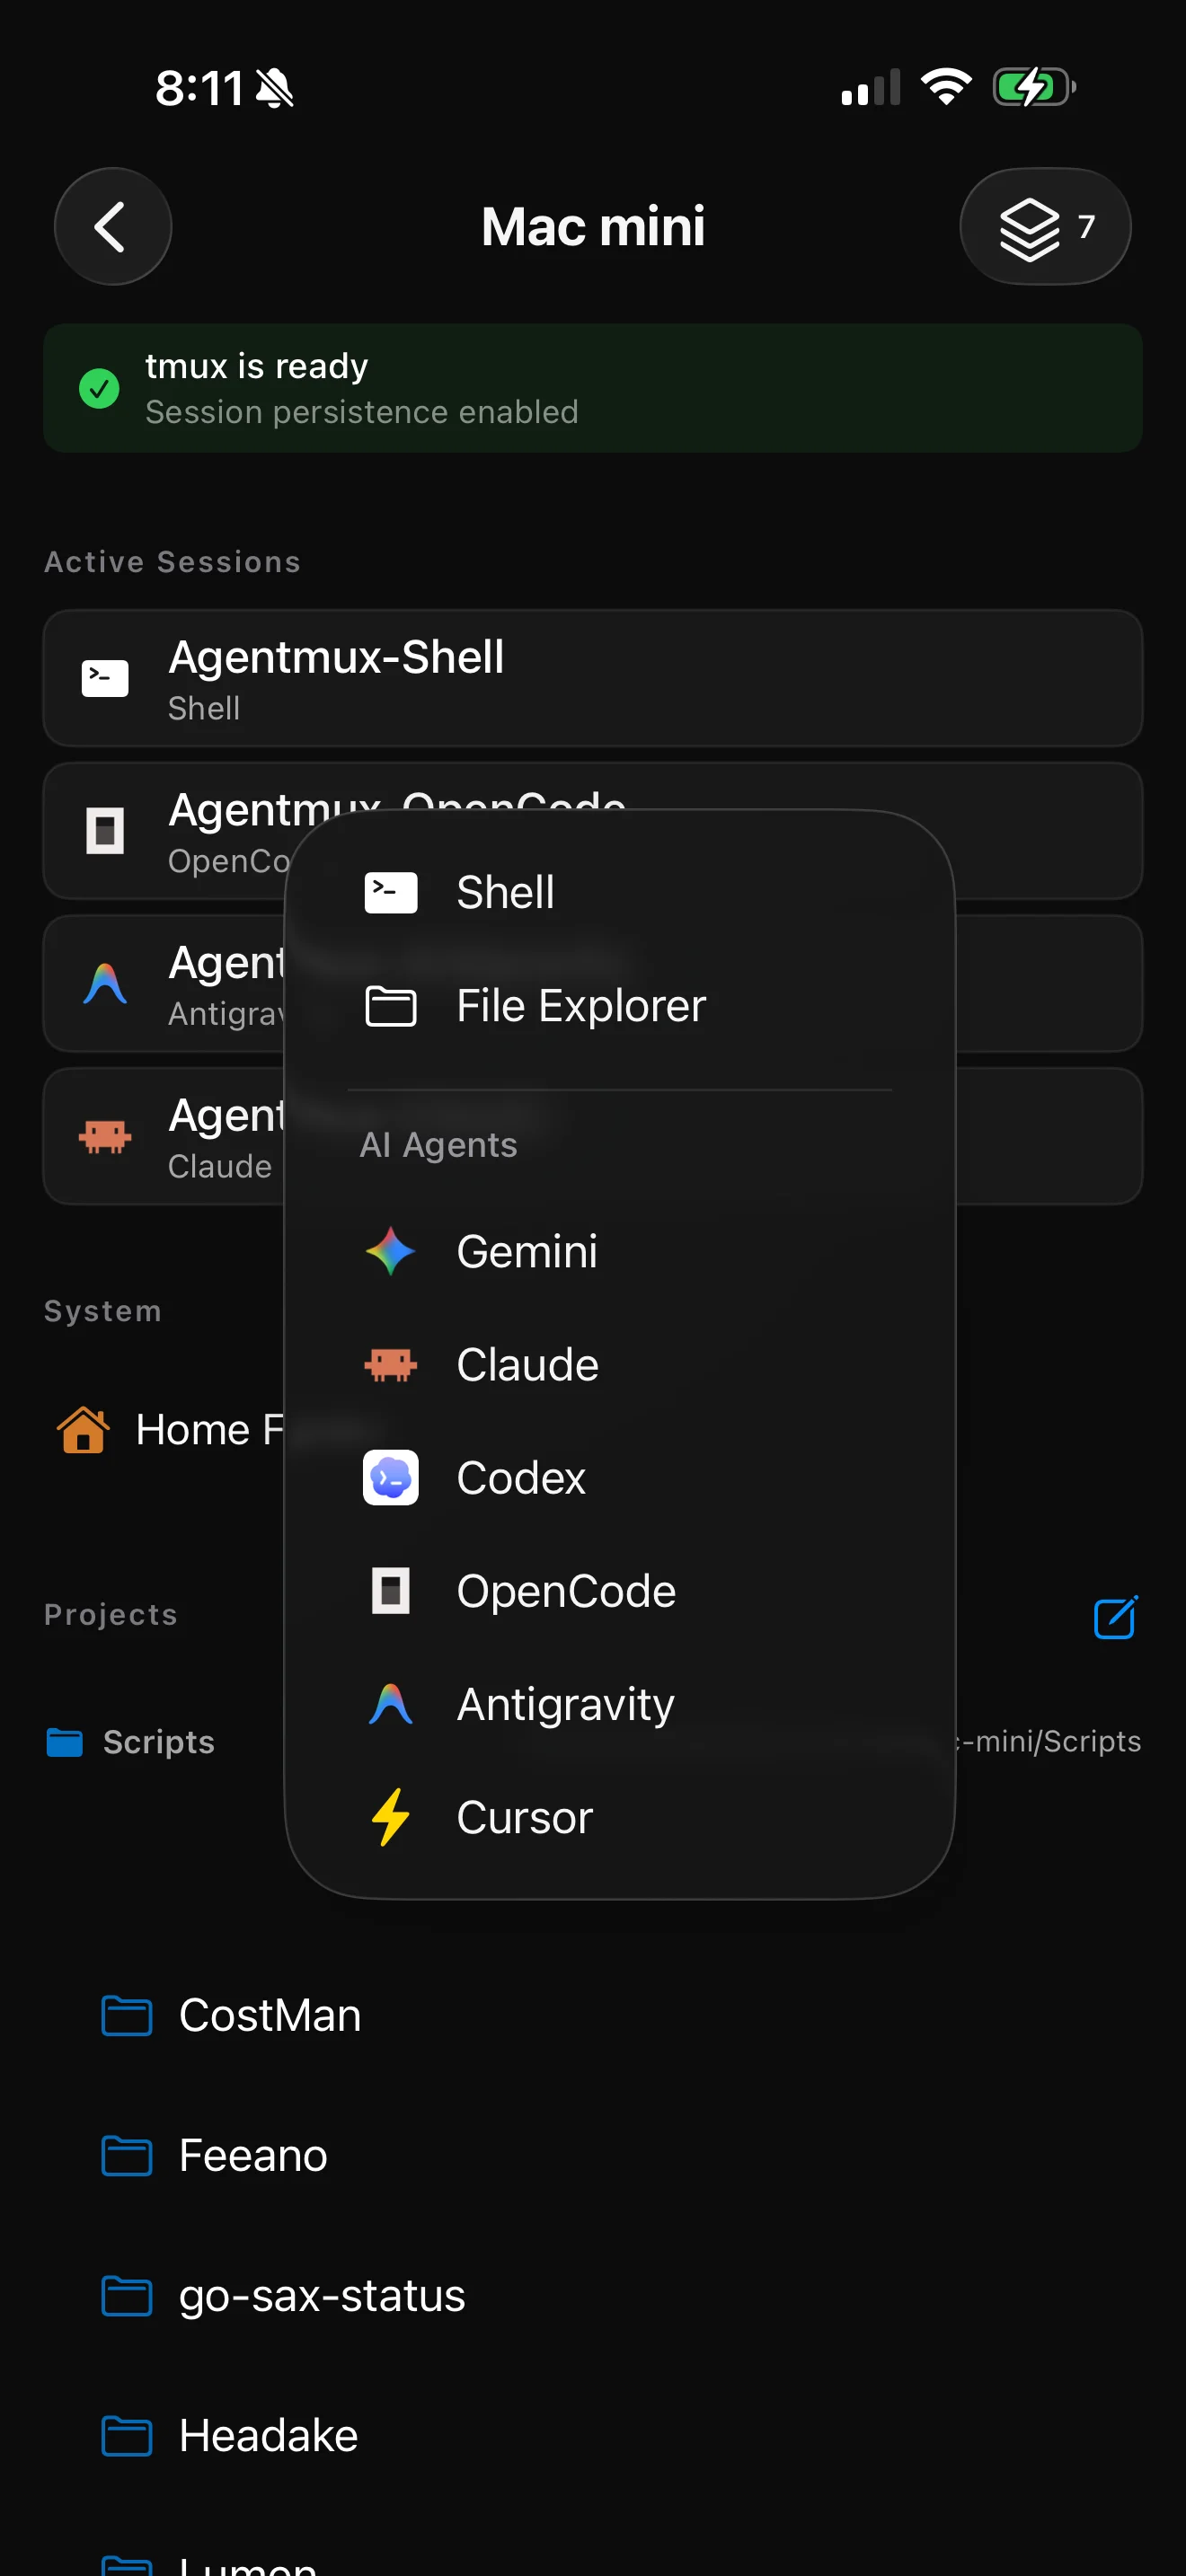
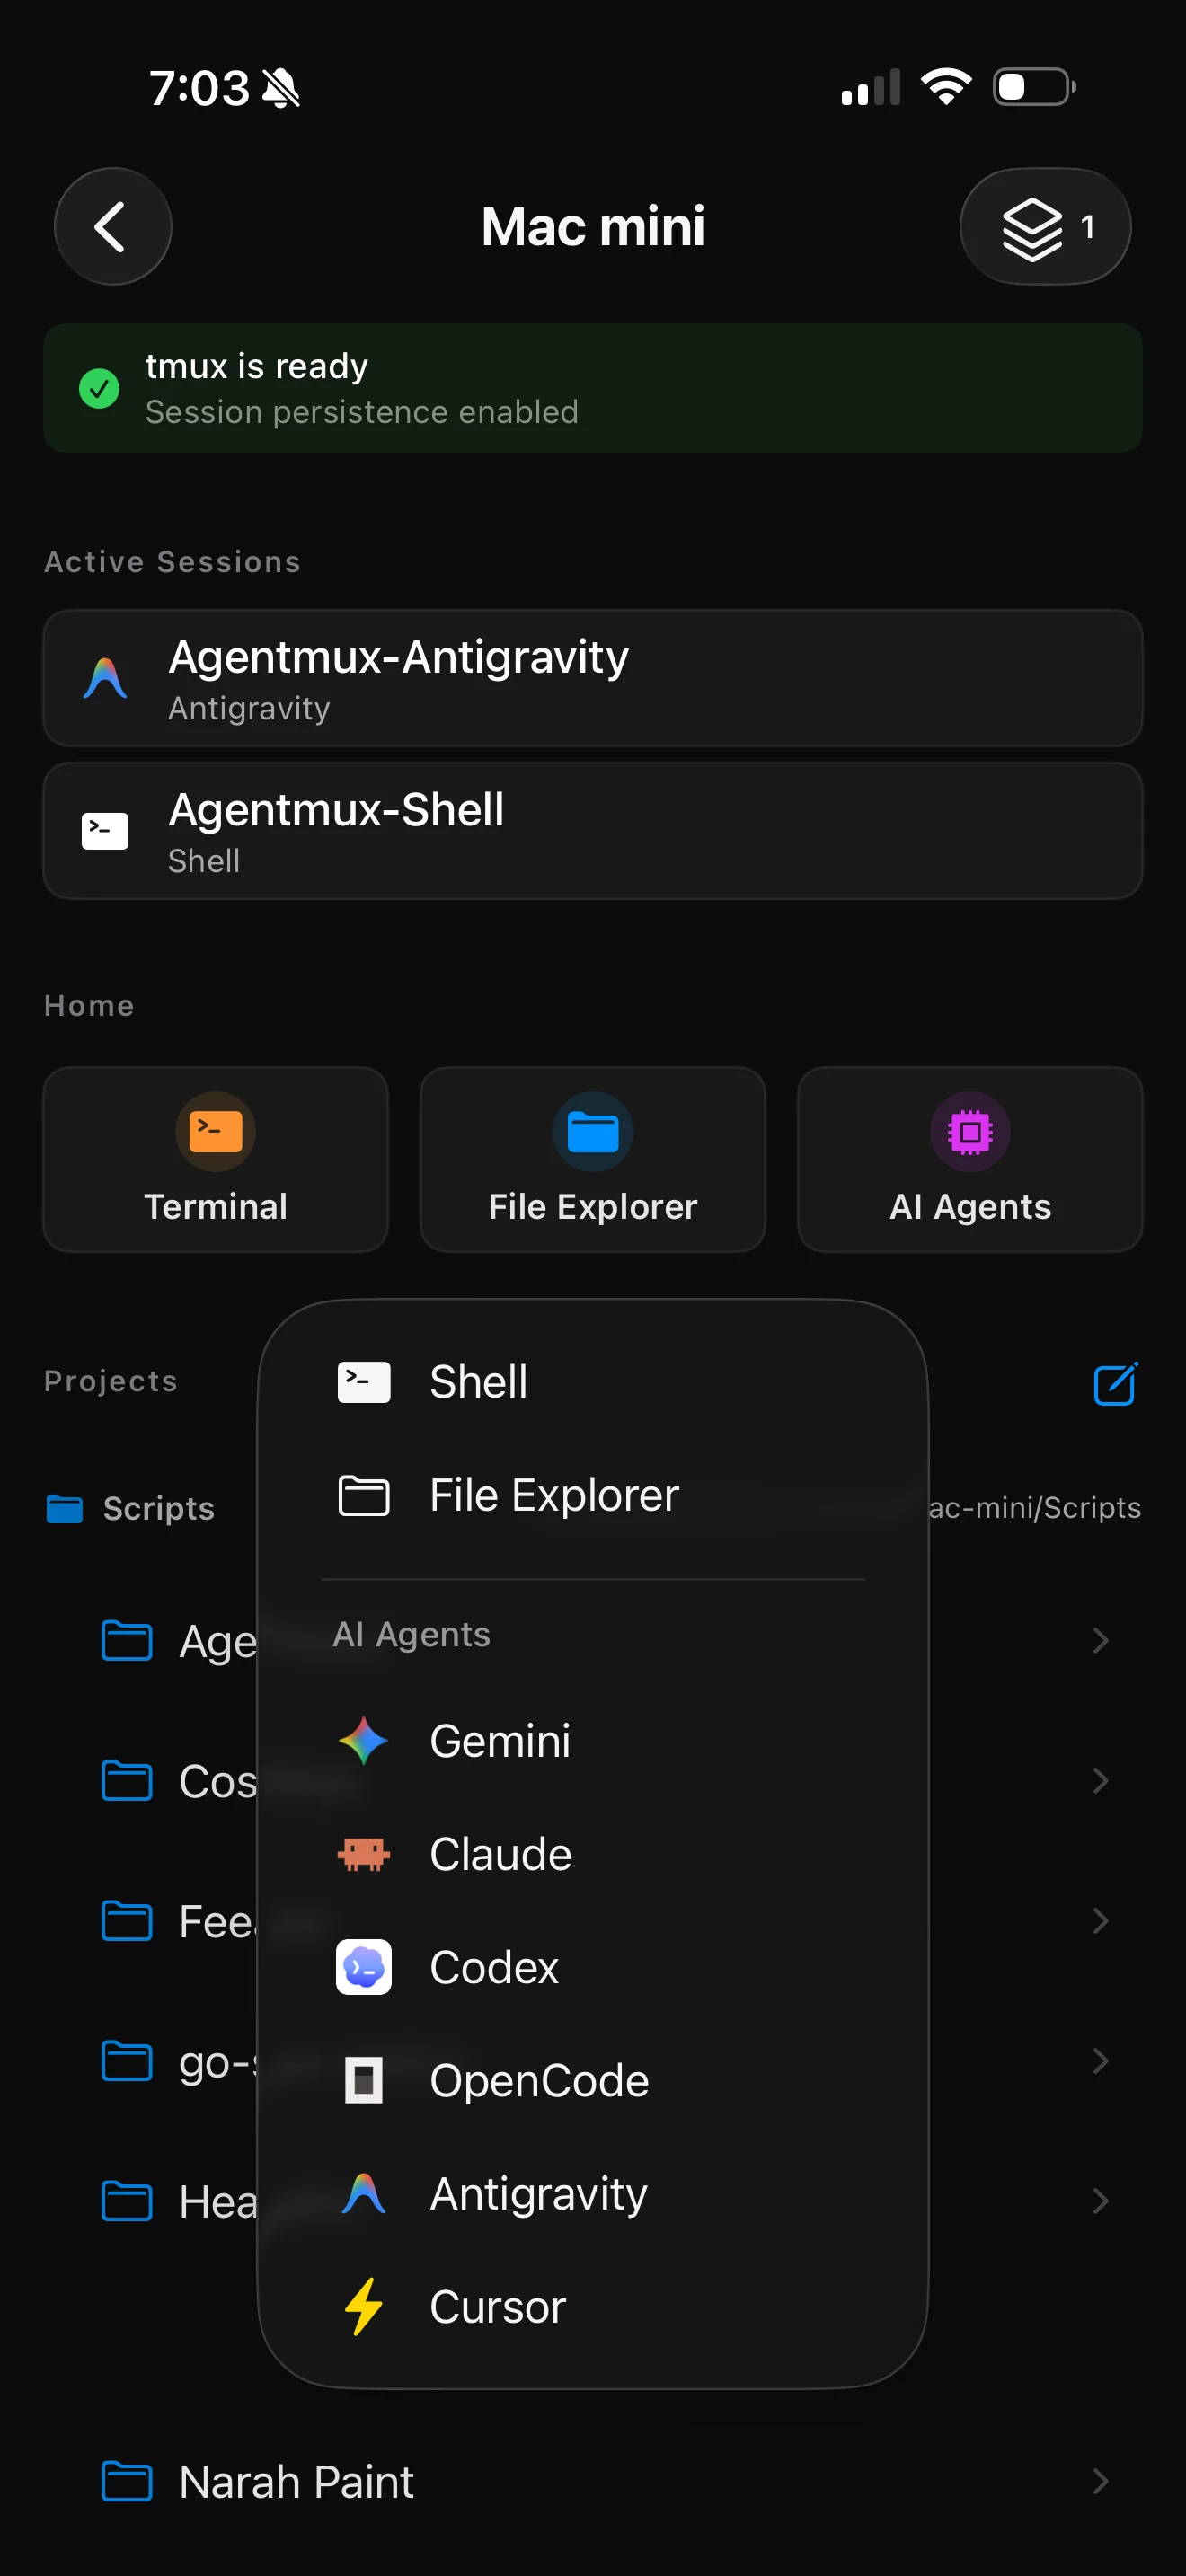
Launch on App Store: update CTAs, copy, and launch-any-agent screenshots.
Replace TestFlight links with the universal App Store URL, refine Traditional Chinese wording, and add responsive download button labels with fixed sizing on desktop.

diff --git a/index.html b/index.html
@@ -169,11 +169,13 @@
         }
 
         .nav-cta {
+            width: 214px;
             min-height: 42px;
             padding: 0 18px;
             color: #06100d;
             background: var(--lime);
             font-size: 13px;
+            white-space: nowrap;
         }
 
         .hero {
@@ -243,6 +245,12 @@
             color: #06100d;
             background: var(--green);
             box-shadow: 0 18px 44px rgba(24, 214, 166, 0.22);
+        }
+
+        .primary-btn.download-cta {
+            width: 276px;
+            max-width: 100%;
+            white-space: nowrap;
         }
 
         .secondary-btn {
@@ -758,6 +766,10 @@
         div[data-lang].active,
         section[data-lang].active { display: block; }
 
+        .cta-label-short { display: none !important; }
+        .cta-label-long { display: none; }
+        .cta-label-long.active { display: initial; }
+
         @media (max-width: 980px) {
             .nav-shell {
                 align-items: flex-start;
@@ -862,10 +874,23 @@
             .nav-cta {
                 grid-column: 2;
                 grid-row: 1;
-                width: auto;
+                width: 104px;
                 min-height: 36px;
                 padding: 0 13px;
-                font-size: 13px;
+                font-size: 12px;
+            }
+
+            .cta-label-long,
+            .cta-label-long.active {
+                display: none !important;
+            }
+
+            .cta-label-short.active {
+                display: initial !important;
+            }
+
+            .primary-btn.download-cta {
+                width: 100%;
             }
 
             .primary-btn,
@@ -1065,11 +1090,15 @@
                 <button class="lang-btn" type="button" onclick="switchLang('zh-Hans')">简中</button>
                 <button class="lang-btn" type="button" onclick="switchLang('ja')">日本語</button>
             </div>
-            <a class="nav-cta" href="https://testflight.apple.com/join/TB1bVUNz">
-                <span data-lang="en" class="active">Join TestFlight</span>
-                <span data-lang="zh-TW">加入 TestFlight</span>
-                <span data-lang="zh-Hans">加入 TestFlight</span>
-                <span data-lang="ja">TestFlight に参加</span>
+            <a class="nav-cta" href="https://apps.apple.com/app/id6766158521">
+                <span class="cta-label-long active" data-lang="en">Download on the App Store</span>
+                <span class="cta-label-long" data-lang="zh-TW">在 App Store 下載</span>
+                <span class="cta-label-long" data-lang="zh-Hans">在 App Store 下载</span>
+                <span class="cta-label-long" data-lang="ja">App Store でダウンロード</span>
+                <span class="cta-label-short active" data-lang="en">Download</span>
+                <span class="cta-label-short" data-lang="zh-TW">下載</span>
+                <span class="cta-label-short" data-lang="zh-Hans">下载</span>
+                <span class="cta-label-short" data-lang="ja">ダウンロード</span>
             </a>
         </div>
     </nav>
@@ -1097,15 +1126,19 @@
                         <span data-lang="ja">Agentmux は iPhone と iPad をリモート開発の司令塔にします。tmux セッションに戻り、Claude、Codex、Gemini、OpenCode をすぐ起動できます。</span>
                     </p>
                     <div class="hero-actions">
-                        <a class="primary-btn" href="https://testflight.apple.com/join/TB1bVUNz">
-                            <span data-lang="en" class="active">Join the beta</span>
-                            <span data-lang="zh-TW">加入 Beta 測試</span>
-                            <span data-lang="zh-Hans">加入 Beta 测试</span>
-                            <span data-lang="ja">Beta に参加</span>
+                        <a class="primary-btn download-cta" href="https://apps.apple.com/app/id6766158521">
+                            <span class="cta-label-long active" data-lang="en">Download on the App Store</span>
+                            <span class="cta-label-long" data-lang="zh-TW">在 App Store 下載</span>
+                            <span class="cta-label-long" data-lang="zh-Hans">在 App Store 下载</span>
+                            <span class="cta-label-long" data-lang="ja">App Store でダウンロード</span>
+                            <span class="cta-label-short active" data-lang="en">Download</span>
+                            <span class="cta-label-short" data-lang="zh-TW">下載</span>
+                            <span class="cta-label-short" data-lang="zh-Hans">下载</span>
+                            <span class="cta-label-short" data-lang="ja">ダウンロード</span>
                         </a>
                         <a class="secondary-btn" href="#features">
                             <span data-lang="en" class="active">See the workflow</span>
-                            <span data-lang="zh-TW">看看工作流</span>
+                            <span data-lang="zh-TW">看看工作流程</span>
                             <span data-lang="zh-Hans">看看工作流</span>
                             <span data-lang="ja">作業フローを見る</span>
                         </a>
@@ -1143,7 +1176,7 @@
                     <div class="demo-copy">
                         <div class="eyebrow">
                             <span data-lang="en" class="active">30-second workflow</span>
-                            <span data-lang="zh-TW">30 秒看懂工作流</span>
+                            <span data-lang="zh-TW">30 秒看懂工作流程</span>
                             <span data-lang="zh-Hans">30 秒看懂工作流</span>
                             <span data-lang="ja">30 秒で見る作業フロー</span>
                         </div>
@@ -1155,7 +1188,7 @@
                         </h2>
                         <p>
                             <span data-lang="en" class="active">Agentmux keeps remote sessions, agents, and project context close together so a phone check can turn into real progress.</span>
-                            <span data-lang="zh-TW">Agentmux 把遠端工作階段、Agent 與專案上下文放在一起，手機上也能真的推進工作。</span>
+                            <span data-lang="zh-TW">Agentmux 把遠端工作階段、Agent 與專案脈絡整合在一起，在手機上也能真正推進進度。</span>
                             <span data-lang="zh-Hans">Agentmux 把远程会话、Agent 与项目上下文放在一起，手机上也能真正推进工作。</span>
                             <span data-lang="ja">Agentmux はリモートセッション、Agent、プロジェクト文脈を近くに置き、スマホから実作業へすぐ戻れます。</span>
                         </p>
@@ -1179,7 +1212,7 @@
                 <div class="section-head">
                     <div class="eyebrow">
                         <span data-lang="en" class="active">Built for real remote development sessions</span>
-                        <span data-lang="zh-TW">為真正的遠端開發工作階段設計</span>
+                        <span data-lang="zh-TW">專為實際的遠端開發工作階段設計</span>
                         <span data-lang="zh-Hans">为真正的远程开发会话设计</span>
                         <span data-lang="ja">実際のリモート開発セッションのために</span>
                     </div>
@@ -1191,7 +1224,7 @@
                     </h2>
                     <p>
                         <span data-lang="en" class="active">Not a tiny terminal with a keyboard bolted on. Agentmux is shaped around sessions, agents, files, edits, and docs.</span>
-                        <span data-lang="zh-TW">不是把終端機縮小塞進螢幕。Agentmux 是為真正的遠端工作流設計：工作階段、Agent、檔案、編輯、文件一次到位。</span>
+                        <span data-lang="zh-TW">不是把終端機縮小塞進螢幕。Agentmux 專為實際的遠端工作流程設計：工作階段、Agent、檔案、編輯、文件一次到位。</span>
                         <span data-lang="zh-Hans">不是把终端缩小塞进屏幕。Agentmux 是为真正的远程工作流设计：会话、Agent、文件、编辑、文档一次到位。</span>
                         <span data-lang="ja">小さなターミナルを押し込むだけではありません。セッション、エージェント、ファイル、編集、ドキュメントまで、実作業に合わせて設計しています。</span>
                     </p>
@@ -1223,7 +1256,7 @@
                         </h3>
                         <p>
                             <span data-lang="en" class="active">Reconnect to active work instead of rebuilding context after every network change.</span>
-                            <span data-lang="zh-TW">網路切換後不用重建上下文，打開 iPhone 或 iPad 就接回原本工作狀態。</span>
+                            <span data-lang="zh-TW">網路切換後不用重建脈絡，打開 iPhone 或 iPad 就接回原本工作狀態。</span>
                             <span data-lang="zh-Hans">网络切换后不用重建上下文，打开 iPhone 或 iPad 就接回原本工作状态。</span>
                             <span data-lang="ja">通信が変わっても作業文脈を失わず、iPhone や iPad からすぐ元の状態に戻れます。</span>
                         </p>
@@ -1252,13 +1285,13 @@
                         <strong>AGENT LAUNCHER</strong>
                         <h2>
                             <span data-lang="en" class="active">Claude, Codex, Gemini, OpenCode. One tap.</span>
-                            <span data-lang="zh-TW">想用哪個 agent，<br>點一下就開。</span>
+                            <span data-lang="zh-TW">想用哪個 Agent，<br>點一下就開。</span>
                             <span data-lang="zh-Hans">想用哪个 agent，<br>点一下就开。</span>
                             <span data-lang="ja">使いたい agent を、<br>すぐ呼び出せる。</span>
                         </h2>
                         <p>
                             <span data-lang="en" class="active">Agentmux keeps agent choices close to the project: launch a shell, open files, or start the right AI assistant without rebuilding context.</span>
-                            <span data-lang="zh-TW">Agentmux 把 Shell、檔案和 AI Agent 放在專案旁邊，少切換、少中斷，不用重新找上下文。</span>
+                            <span data-lang="zh-TW">Agentmux 把 Shell、檔案和 AI Agent 跟專案放在一起，少切換、少中斷，不必重新找脈絡。</span>
                             <span data-lang="zh-Hans">Agentmux 把 Shell、文件和 AI Agent 放在项目旁边，少切换、少中断，不用重新找上下文。</span>
                             <span data-lang="ja">Shell、ファイル、AI エージェントをプロジェクトのすぐそばに置き、文脈を失わずに作業を続けられます。</span>
                         </p>
@@ -1304,7 +1337,7 @@
                         </h2>
                         <p>
                             <span data-lang="en" class="active">Move through source files, builds, and Markdown docs without typing long paths. Pro adds branch switching, history, and batch file tools.</span>
-                            <span data-lang="zh-TW">原始碼、build、README 都能直接瀏覽，不用在終端機裡猜路徑。Pro 會加上分支切換、歷史紀錄和批次檔案工具。</span>
+                            <span data-lang="zh-TW">原始碼、build、README 都能直接瀏覽，不用在終端機裡猜路徑。Pro 支援分支切換、歷史紀錄和批次檔案工具。</span>
                             <span data-lang="zh-Hans">源码、build、README 都能直接浏览，不用在终端里猜路径。Pro 会加上分支切换、历史记录和批量文件工具。</span>
                             <span data-lang="ja">ソース、build、README まで、長いパスを打たずに移動できます。Pro ではブランチ切り替え、履歴、ファイル一括操作も使えます。</span>
                         </p>
@@ -1330,7 +1363,7 @@
                         </h2>
                         <p>
                             <span data-lang="en" class="active">Line numbers and syntax highlighting make source readable on the go. Pro turns that viewer into a remote editor with quick saves over SSH.</span>
-                            <span data-lang="zh-TW">行號與語法上色讓原始碼看起來清楚。Pro 會把檢視器變成可透過 SSH 快速儲存的遠端編輯器。</span>
+                            <span data-lang="zh-TW">行號與語法上色讓原始碼更易讀。Pro 能把檢視器變成可透過 SSH 快速儲存的遠端編輯器。</span>
                             <span data-lang="zh-Hans">行号与语法高亮让源码看起来清楚。Pro 会把查看器变成可通过 SSH 快速保存的远程编辑器。</span>
                             <span data-lang="ja">行番号とシンタックスハイライトでソースを読みやすく。Pro なら SSH 越しに保存できるリモートエディタになります。</span>
                         </p>
@@ -1343,19 +1376,19 @@
                     <div>
                         <div class="eyebrow">
                             <span data-lang="en" class="active">Free trial, then choose your workspace</span>
-                            <span data-lang="zh-TW">先完整試用，再選擇你的工作空間</span>
+                            <span data-lang="zh-TW">先完整試用，再決定是否升級</span>
                             <span data-lang="zh-Hans">先完整试用，再选择你的工作空间</span>
                             <span data-lang="ja">まず全機能を試用、そのあとワークスペースを選ぶ</span>
                         </div>
                         <h2>
                             <span data-lang="en" class="active">Pro is for people who live in remote projects.</span>
-                            <span data-lang="zh-TW">Pro 給真的<br>住在遠端專案裡的人。</span>
+                            <span data-lang="zh-TW">Pro 給每天泡在<br>遠端專案裡的開發者。</span>
                             <span data-lang="zh-Hans">Pro 给真的<br>住在远程项目里的人。</span>
                             <span data-lang="ja">Pro はリモートプロジェクトで<br>本気で作業する人へ。</span>
                         </h2>
                         <p>
                             <span data-lang="en" class="active">Agentmux includes a 14-day full-feature trial. After that, free users can keep a focused single-server SSH workflow; Pro unlocks the full workspace.</span>
-                            <span data-lang="zh-TW">Agentmux 提供 14 天完整功能試用。試用後免費版仍可使用單一主機的 SSH 工作流；Pro 則解鎖完整工作空間。</span>
+                            <span data-lang="zh-TW">Agentmux 提供 14 天完整功能試用。試用後免費版仍可使用單一主機的 SSH 工作流程；Pro 則解鎖完整功能。</span>
                             <span data-lang="zh-Hans">Agentmux 提供 14 天完整功能试用。试用后免费版仍可使用单一主机的 SSH 工作流；Pro 则解锁完整工作空间。</span>
                             <span data-lang="ja">Agentmux は 14 日間の全機能トライアル付き。試用後も単一サーバーの SSH ワークフローは使え、Pro でワークスペース全体をアンロックできます。</span>
                         </p>
@@ -1365,7 +1398,7 @@
                             <strong>Free</strong>
                             <span>
                                 <span data-lang="en" class="active">Single-server SSH, persistent sessions, and core terminal workflows.</span>
-                                <span data-lang="zh-TW">單一主機 SSH、不中斷工作階段，以及核心終端機工作流。</span>
+                                <span data-lang="zh-TW">單一主機 SSH、不中斷工作階段，以及核心終端機工作流程。</span>
                                 <span data-lang="zh-Hans">单一主机 SSH、不中断会话，以及核心终端工作流。</span>
                                 <span data-lang="ja">単一サーバー SSH、継続セッション、基本ターミナルワークフロー。</span>
                             </span>
@@ -1391,16 +1424,20 @@
                     <span data-lang="ja">開発マシンを、<br>そのまま持ち歩く。</span>
                 </h2>
                 <p>
-                    <span data-lang="en" class="active">Join TestFlight and try the full workspace across iPhone and iPad.</span>
-                    <span data-lang="zh-TW">加入 TestFlight，在 iPhone 與 iPad 上試用完整工作空間。</span>
-                    <span data-lang="zh-Hans">加入 TestFlight，在 iPhone 与 iPad 上试用完整工作空间。</span>
-                    <span data-lang="ja">TestFlight に参加して、iPhone と iPad でワークスペース全体を試せます。</span>
+                    <span data-lang="en" class="active">Download from the App Store and try the full workspace across iPhone and iPad.</span>
+                    <span data-lang="zh-TW">從 App Store 下載，在 iPhone 與 iPad 上試用完整功能。</span>
+                    <span data-lang="zh-Hans">从 App Store 下载，在 iPhone 与 iPad 上试用完整工作空间。</span>
+                    <span data-lang="ja">App Store からダウンロードして、iPhone と iPad でワークスペース全体を試せます。</span>
                 </p>
-                <a class="primary-btn" href="https://testflight.apple.com/join/TB1bVUNz">
-                    <span data-lang="en" class="active">Join TestFlight</span>
-                    <span data-lang="zh-TW">加入 TestFlight</span>
-                    <span data-lang="zh-Hans">加入 TestFlight</span>
-                    <span data-lang="ja">TestFlight に参加</span>
+                <a class="primary-btn download-cta" href="https://apps.apple.com/app/id6766158521">
+                    <span class="cta-label-long active" data-lang="en">Download on the App Store</span>
+                    <span class="cta-label-long" data-lang="zh-TW">在 App Store 下載</span>
+                    <span class="cta-label-long" data-lang="zh-Hans">在 App Store 下载</span>
+                    <span class="cta-label-long" data-lang="ja">App Store でダウンロード</span>
+                    <span class="cta-label-short active" data-lang="en">Download</span>
+                    <span class="cta-label-short" data-lang="zh-TW">下載</span>
+                    <span class="cta-label-short" data-lang="zh-Hans">下载</span>
+                    <span class="cta-label-short" data-lang="ja">ダウンロード</span>
                 </a>
             </section>
         </main>

diff --git a/privacy.html b/privacy.html
@@ -170,11 +170,13 @@
         }
 
         .nav-cta {
+            width: 214px;
             min-height: 42px;
             padding: 0 18px;
             color: #06100d;
             background: var(--lime);
             font-size: 13px;
+            white-space: nowrap;
         }
 
         .hero {
@@ -337,6 +339,10 @@
         [data-lang].active { display: initial; }
         div[data-lang].active { display: block; }
 
+        .cta-label-short { display: none !important; }
+        .cta-label-long { display: none; }
+        .cta-label-long.active { display: initial; }
+
         @media (max-width: 980px) {
             .nav-shell {
                 align-items: flex-start;
@@ -393,10 +399,19 @@
             .nav-cta {
                 grid-column: 2;
                 grid-row: 1;
-                width: auto;
+                width: 104px;
                 min-height: 36px;
                 padding: 0 13px;
-                font-size: 13px;
+                font-size: 12px;
+            }
+
+            .cta-label-long,
+            .cta-label-long.active {
+                display: none !important;
+            }
+
+            .cta-label-short.active {
+                display: initial !important;
             }
 
             .hero {
@@ -478,11 +493,15 @@
                 <button class="lang-btn" type="button" onclick="switchLang('zh-Hans')">简中</button>
                 <button class="lang-btn" type="button" onclick="switchLang('ja')">日本語</button>
             </div>
-            <a class="nav-cta" href="https://testflight.apple.com/join/TB1bVUNz">
-                <span data-lang="en" class="active">Join TestFlight</span>
-                <span data-lang="zh-TW">加入 TestFlight</span>
-                <span data-lang="zh-Hans">加入 TestFlight</span>
-                <span data-lang="ja">TestFlight に参加</span>
+            <a class="nav-cta" href="https://apps.apple.com/app/id6766158521">
+                <span class="cta-label-long active" data-lang="en">Download on the App Store</span>
+                <span class="cta-label-long" data-lang="zh-TW">在 App Store 下載</span>
+                <span class="cta-label-long" data-lang="zh-Hans">在 App Store 下载</span>
+                <span class="cta-label-long" data-lang="ja">App Store でダウンロード</span>
+                <span class="cta-label-short active" data-lang="en">Download</span>
+                <span class="cta-label-short" data-lang="zh-TW">下載</span>
+                <span class="cta-label-short" data-lang="zh-Hans">下载</span>
+                <span class="cta-label-short" data-lang="ja">ダウンロード</span>
             </a>
         </div>
     </nav>
@@ -561,15 +580,15 @@
                 </div>
                 <p>Agentmux（下稱「我們」或「本應用程式」）重視並保護您的隱私。本政策說明我們如何處理資料安全與隱私。</p>
 
-                <h2>1. 不收集資料與用戶端運作</h2>
+                <h2>1. 不收集資料與客戶端運作</h2>
                 <p>Agentmux 是一款專為開發者設計的工具。我們 <strong>不會</strong> 收集、儲存或傳輸您的任何個人資料、伺服器憑證或終端機流量至我們的伺服器。所有操作都在您的裝置本機，或直接透過 SSH 在您的伺服器上進行。</p>
 
-                <h2>2. 用戶端 AI 橋接（選用）</h2>
-                <p>Agentmux 是安全的用戶端 SSH 橋接工具，讓您連線到自己的遠端伺服器。本應用程式本身不直接提供、託管或執行任何 AI 模型或服務；它只讓您與自己伺服器上已安裝並設定好的 AI 程式碼助理（如 Claude、Gemini 等）與自訂助理互動。</p>
+                <h2>2. 客戶端 AI 橋接（可選）</h2>
+                <p>Agentmux 是安全的客戶端 SSH 橋接工具，讓您連線到自己的遠端伺服器。本應用程式本身不直接提供、託管或執行任何 AI 模型或服務；它只讓您與自己伺服器上已安裝並設定好的 AI 程式碼助理（如 Claude、Gemini 等）與自訂助理互動。</p>
                 <ul>
                     <li><strong>處理哪些資料</strong>：當您選擇執行這些助理時，您在終端機與編輯器中輸入的提示詞、指令歷程以及選取的工作區檔案，將會透過您的 SSH 連線傳送，並在您的伺服器上執行程式碼任務。</li>
                     <li><strong>傳送至何處</strong>：資料會直接在您的遠端伺服器上，由您使用自己的 API 金鑰所設定的第三方 AI 服務提供商（例如 Anthropic、Google、OpenAI 等）處理。</li>
-                    <li><strong>無用戶端攔截</strong>：所有資料傳輸皆透過您的 SSH 連線點對點加密。Agentmux 不會截取、收集、記錄或追蹤任何程式碼工作區內容或 AI 輸入。使用這些功能即代表您授權將工作區資料傳送至您伺服器上設定的 AI 服務提供商。</li>
+                    <li><strong>App 不會攔截或留存</strong>：所有資料傳輸皆透過您的 SSH 連線加密進行。Agentmux 不會截取、收集、記錄或追蹤任何程式碼工作區內容或 AI 輸入。使用這些功能即代表您授權將工作區資料傳送至您伺服器上設定的 AI 服務提供商。</li>
                 </ul>
 
                 <h2>3. 本地儲存與安全</h2>
@@ -581,8 +600,8 @@
 
                 <h2>4. 指令透明度與安全</h2>
                 <ul>
-                    <li><strong>自動化探測</strong>：為了提供路徑偵測與 tmux 管理等功能，Agentmux 會執行不具破壞性的探測指令（如 <code>PATH</code>、<code>tmux -V</code>）。這些指令不會修改您的系統設定。</li>
-                    <li><strong>背景活動探測</strong>：如果您啟用了「背景活動提醒」功能，本應用程式可能會在背景執行時定期檢查您的終端機狀態（例如查詢 TTY 處理程序）。這僅用於在長時間執行的任務完成時通知您。此監測直接透過您的加密 SSH 連線進行，不會收集終端機資料或將其傳輸至外部伺服器。</li>
+                    <li><strong>自動化偵測</strong>：為了提供路徑偵測與 tmux 管理等功能，Agentmux 會執行不具破壞性的偵測指令（如 <code>PATH</code>、<code>tmux -V</code>）。這些指令不會修改您的系統設定。</li>
+                    <li><strong>背景活動偵測</strong>：如果您啟用了「背景活動提醒」功能，本應用程式可能會在背景執行時定期檢查您的終端機狀態（例如查詢 TTY 處理程序）。這僅用於在長時間執行的任務完成時通知您。此監測直接透過您的加密 SSH 連線進行，不會收集終端機資料或將其傳輸至外部伺服器。</li>
                     <li><strong>Agent 最佳化</strong>：啟動特定 Agent（如 Gemini）時，App 可能會暫時調整遠端設定（如 <code>~/.gemini/settings.json</code>）以符合您的介面主題。這些變更是暫時性的，並會自動還原。</li>
                     <li><strong>安全性</strong>：所有產生的指令均經過嚴格轉義以防止注入。</li>
                 </ul>